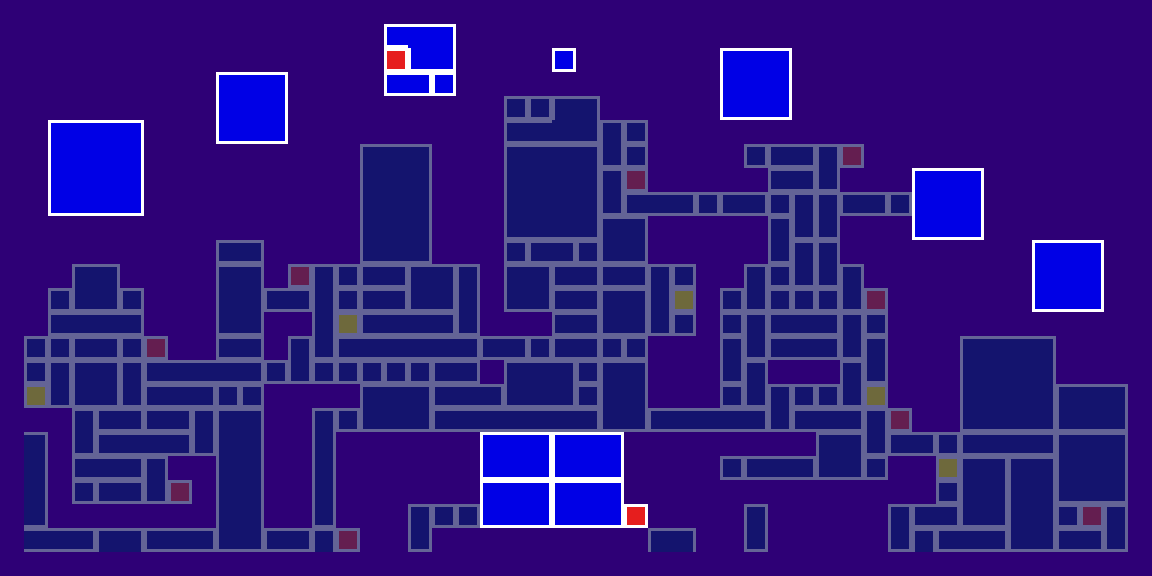
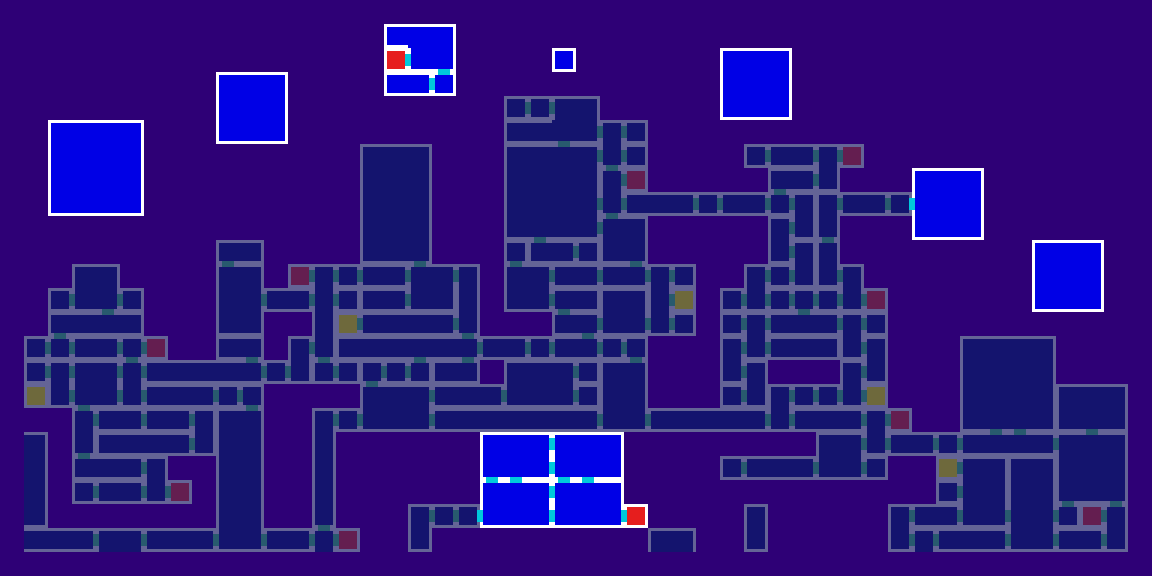
feat(cvaos): draw doors on the tracker's maps
Issue: The tracker's maps drew a wall between every pair of rooms, so
they did not show where one room leads into the next.

Solution: Each door the castle map can place is now drawn across its
wall, the way the in-game map marks doors.

diff --git a/worlds/cvaos/tracker_map.py b/worlds/cvaos/tracker_map.py
@@ -27,6 +27,7 @@ from typing import NamedTuple
 from . import tracker_png
 from .data import map_info, pickup_info_collection
 from .data._csv_resources import open_csv
+from .data.entrance_info import rows as entrance_rows
 from .data.room_info import by_identifier as rooms_by_identifier
 
 CELL_PIXELS = 24                 # image pixels per map cell
@@ -52,10 +53,12 @@ class Palette(NamedTuple):
     save: tuple[int, int, int]
     warp: tuple[int, int, int]
     wall: tuple[int, int, int]
+    door: tuple[int, int, int]
 
 
-BRIGHT = Palette((0, 0, 230), (230, 30, 30), (240, 230, 30), (255, 255, 255))
-DIM = Palette((20, 20, 110), (100, 30, 80), (110, 105, 60), (100, 100, 150))
+BRIGHT = Palette((0, 0, 230), (230, 30, 30), (240, 230, 30), (255, 255, 255), (0, 200, 220))
+DIM = Palette((20, 20, 110), (100, 30, 80), (110, 105, 60), (100, 100, 150), (40, 90, 110))
+DOOR_PIXELS = CELL_PIXELS // 2   # a door's length along the wall
 MARKER = (255, 140, 0, 255)
 
 
@@ -114,6 +117,36 @@ def _make_maps() -> tuple[TrackerMap, ...]:
 
 
 MAPS: tuple[TrackerMap, ...] = _make_maps()
+
+
+def _signed_byte(value: int) -> int:
+    value &= 0xFF
+    return value - 0x100 if value & 0x80 else value
+
+
+def _door_cells() -> frozenset[tuple[tuple[int, int], tuple[int, int]]]:
+    """Return each door as the pair of map cells it joins, one in each room.
+
+    A door's position is the cell just outside its room, relative to the room's own cell, and it
+    lands in a cell of the room it leads to. A door whose destination the map draws elsewhere joins
+    no pair of cells, so it is not drawn.
+    """
+    doors = set()
+    for door in entrance_rows:
+        room = rooms_by_identifier[door.room_identifier]
+        outside = (int(room.x) + _signed_byte(door.x_pos_door),
+                   int(room.y) + _signed_byte(door.y_pos_door))
+        if map_info.room_at(*outside) != door.dest_room_identifier:
+            continue
+        for step_x, step_y in ((1, 0), (-1, 0), (0, 1), (0, -1)):
+            inside = (outside[0] + step_x, outside[1] + step_y)
+            if map_info.room_at(*inside) == door.room_identifier:
+                doors.add(tuple(sorted((inside, outside))))
+                break
+    return frozenset(doors)
+
+
+DOORS = _door_cells()
 AREA_MAPS = range(2, len(MAPS))
 MAP_GROUPS = [MAPS[0].name, MAPS[1].name, ("Areas", [MAPS[index].name for index in AREA_MAPS])]
 
@@ -152,6 +185,28 @@ def render(tracker: TrackerMap) -> bytes:
                 fill(left, top, right, top + WALL_PIXELS, palette.wall)
             if map_info.room_at(x, y + 1) != room:
                 fill(left, bottom - WALL_PIXELS, right, bottom, palette.wall)
+    for (x1, y1), (x2, y2) in DOORS:
+        rooms = {map_info.room_at(x1, y1), map_info.room_at(x2, y2)}
+        if not all(first_x <= x <= last_x and first_y <= y <= last_y
+                   for x, y in ((x1, y1), (x2, y2))):
+            continue
+        if rooms & tracker.rooms:
+            palette = BRIGHT
+        elif rooms & tracker.context:
+            palette = DIM
+        else:
+            continue
+        # The two cells are neighbours, and the door sits across the wall between them.
+        if x1 != x2:
+            wall_x = origin_x + x2 * CELL_PIXELS
+            middle = origin_y + y1 * CELL_PIXELS + CELL_PIXELS // 2
+            fill(wall_x - WALL_PIXELS, middle - DOOR_PIXELS // 2,
+                 wall_x + WALL_PIXELS, middle + DOOR_PIXELS // 2, palette.door)
+        else:
+            wall_y = origin_y + y2 * CELL_PIXELS
+            middle = origin_x + x1 * CELL_PIXELS + CELL_PIXELS // 2
+            fill(middle - DOOR_PIXELS // 2, wall_y - WALL_PIXELS,
+                 middle + DOOR_PIXELS // 2, wall_y + WALL_PIXELS, palette.door)
     return tracker_png.encode(width, height, bytes(canvas))
 
 

diff --git a/worlds/cvaos/test/test_tracker_map.py b/worlds/cvaos/test/test_tracker_map.py
@@ -143,6 +143,17 @@ class TrackerMapTest(unittest.TestCase):
                  if map_info.room_at(int(info.x), int(info.y)) != room]
         self.assertEqual(moved, ["901"])
 
+    def test_every_door_joins_two_rooms_the_entrances_connect(self):
+        from ..data.entrance_info import rows as entrances
+        connected = {frozenset((door.room_identifier, door.dest_room_identifier))
+                     for door in entrances}
+        self.assertGreater(len(tracker_map.DOORS), 300)
+        for (x1, y1), (x2, y2) in tracker_map.DOORS:
+            with self.subTest(door=((x1, y1), (x2, y2))):
+                self.assertEqual(abs(x1 - x2) + abs(y1 - y2), 1, "the cells are neighbours")
+                rooms = frozenset((map_info.room_at(x1, y1), map_info.room_at(x2, y2)))
+                self.assertIn(rooms, connected)
+
     def test_the_grid_matches_the_rom(self):
         rom_path = find_rom()
         if rom_path is None:
